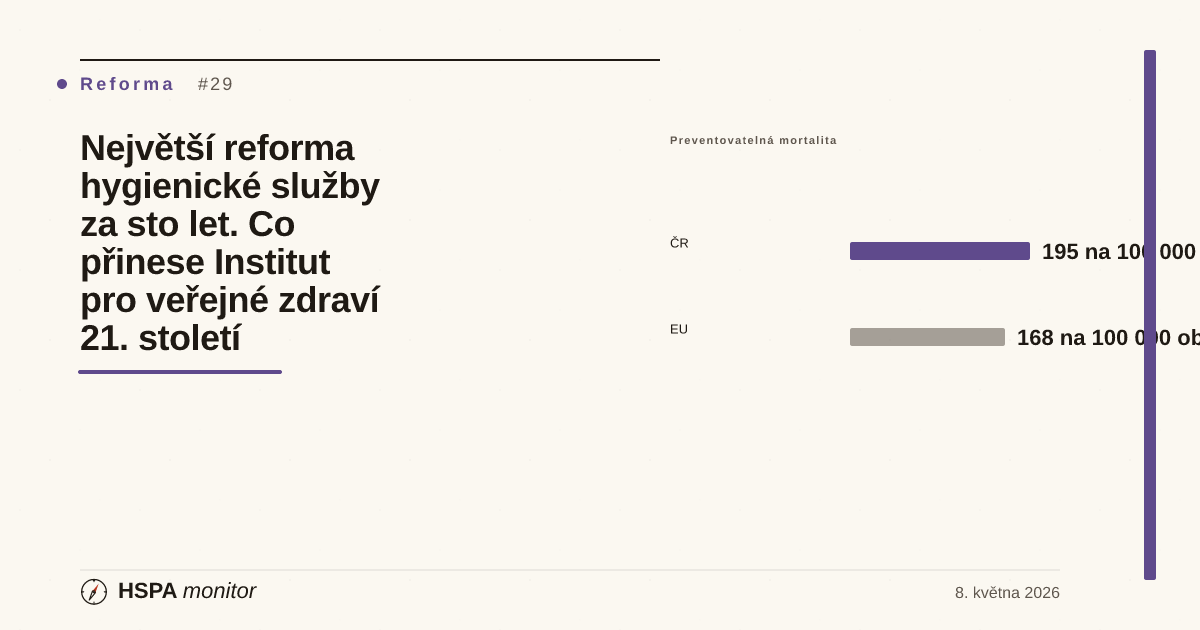
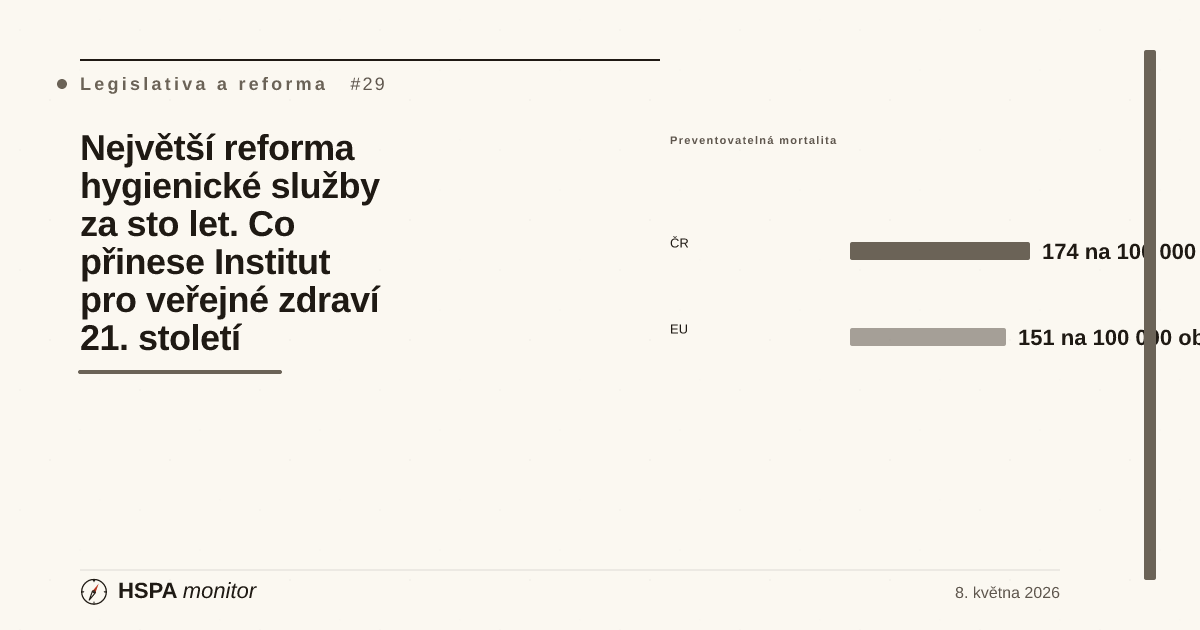
fix(clanky): sync cisel s datovym kontraktem (alkohol, prev. mortalita)
Prvni cast overovaciho pruchodu kompendia reformy (interni data):
- databox: spotreba alkoholu "kolem 14 l" -> "pres 10 l vs. OECD ~8,5 l"
  (kontrakt 2024: 10,6 vs. 8,4 l)
- cover_viz preventabilni mortality: 195/168 -> 174/151 (kontrakt 2023:
  CR 173,86 vs. EU 150,85) + pregenerovany cover PNG/SVG
- explainer reforma_hygienicke_sluzby: koureni 22 % -> 16,4 %, alkohol
  14 l -> pres 10 l (sladeno s kontraktem)

Nasleduje druha cast: overeni externich autoritativnich tvrzeni
(governance instituci, historie, workforce) + doplneni zdroju.

Claude-Session: https://claude.ai/code/session_01CxTJ2VYYgQRYoC8G31VbqZ

diff --git a/05_M1_Starter/clanek-institut-verejneho-zdravi.html b/05_M1_Starter/clanek-institut-verejneho-zdravi.html
@@ -1295,7 +1295,7 @@
       <div class="ed-kicker">Data v tomto článku</div>
       <h4 class="article-databox-h">Indikátory HSPA Monitoru, ze kterých text vychází</h4>
       <ul class="article-databox-list">
-        <li><a href="indikator-alkohol_spotreba.html"><strong>Spotřeba alkoholu</strong></a> — ČR kolem 14 l čistého alkoholu / osobu / rok vs. OECD průměr</li>
+        <li><a href="indikator-alkohol_spotreba.html"><strong>Spotřeba alkoholu</strong></a> — ČR přes 10 l čistého alkoholu / osobu / rok vs. OECD průměr kolem 8,5 l</li>
         <li><a href="indikator-kuractvi_denni.html"><strong>Denní kuřáctví</strong></a> — podíl denních kuřáků v dospělé populaci ČR</li>
         <li><a href="indikator-obezita_prevalence.html"><strong>Prevalence obezity a nadváhy</strong></a> — ~60 % dospělých ČR vs. OECD průměr</li>
         <li><a href="indikator-pohybova_aktivita_dospeli.html"><strong>Pohybová aktivita dospělých</strong></a> — podíl splňujících doporučení WHO</li>
